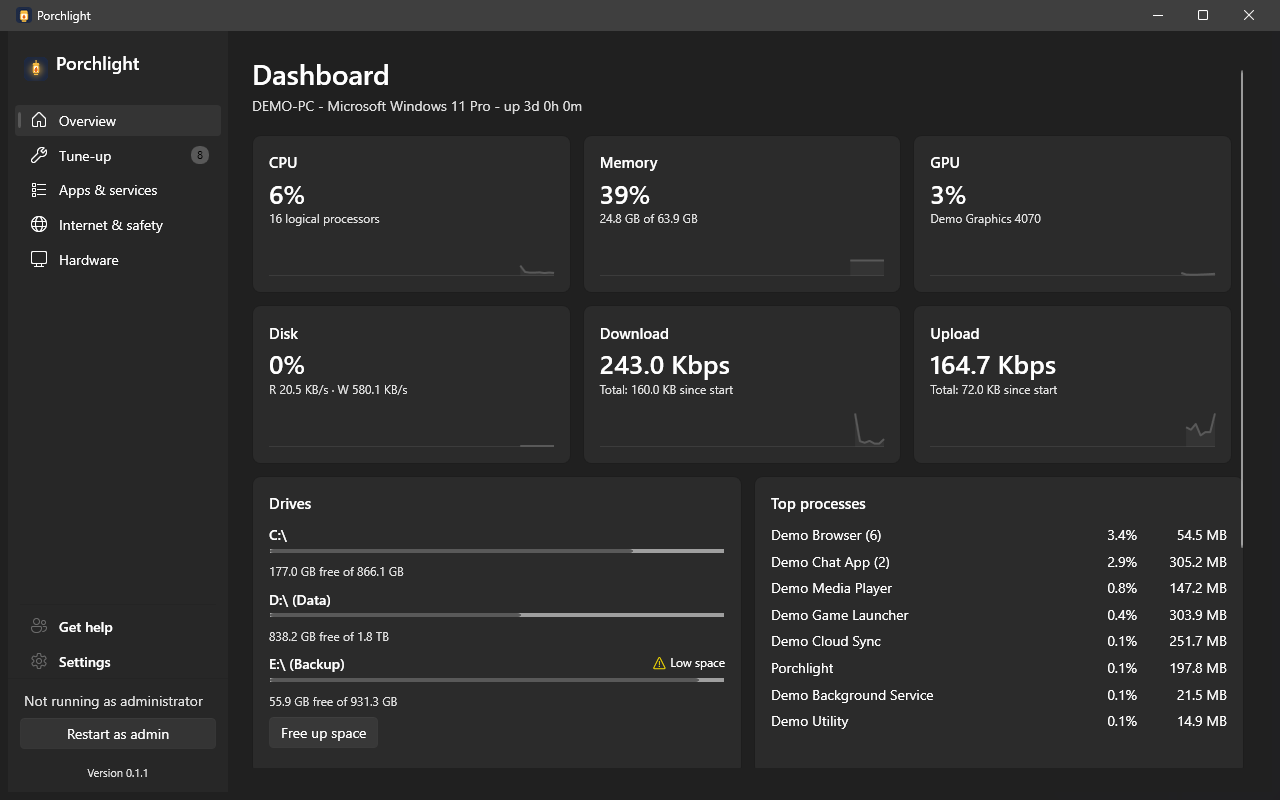
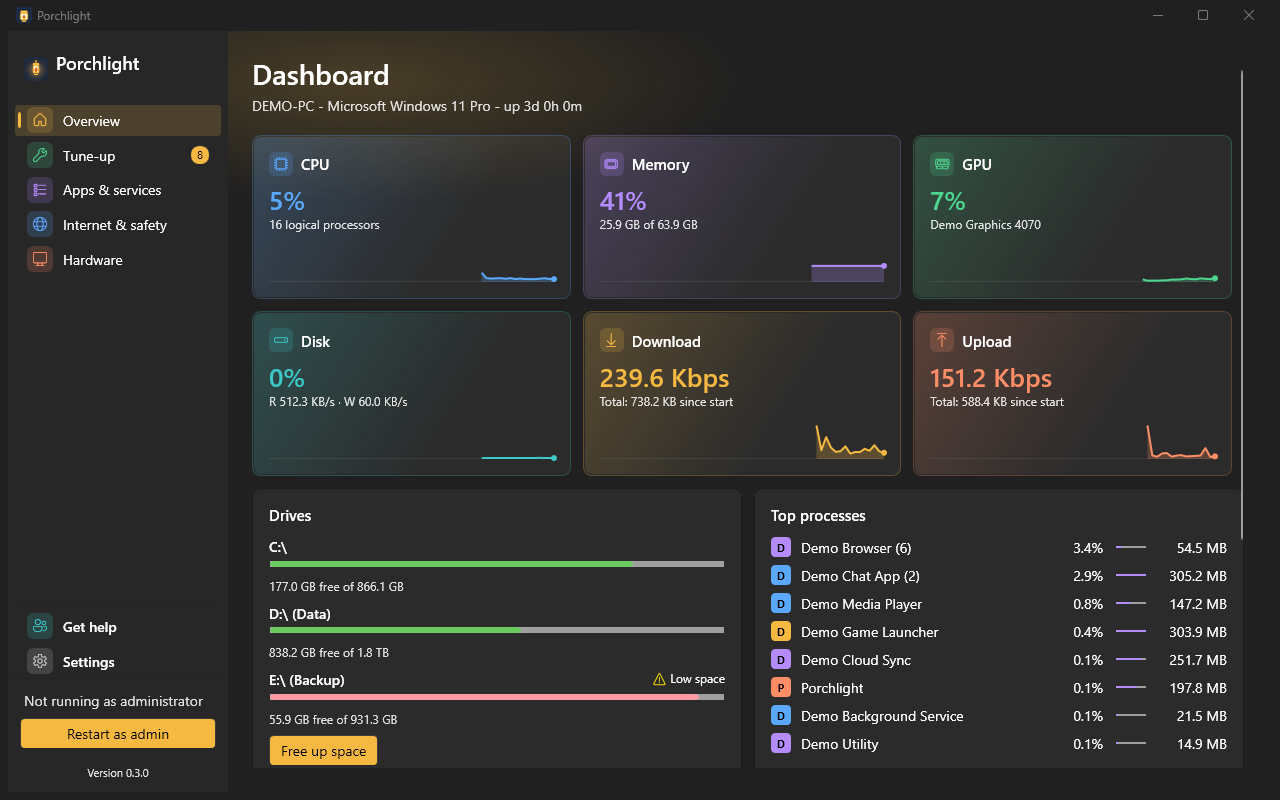
feat(ui): vivid colour for the web console's new views, spec 40, changelog and dashboard screenshot

diff --git a/src/Porchlight.Core/WebConsole/Assets/app.js b/src/Porchlight.Core/WebConsole/Assets/app.js
@@ -48,7 +48,7 @@
 
   var SVG = "http://www.w3.org/2000/svg";
 
-  // Each metric's colour and icon (docs/specs/39-vivid-colour.md), matching the app's Dashboard.
+  // Each metric's colour and icon (docs/specs/40-vivid-colour.md), matching the app's Dashboard.
   var metricLook = {
     cpu: { hue: "blue", icon: "M4 4h8v8H4z M6 1.5V4 M10 1.5V4 M6 12v2.5 M10 12v2.5 M1.5 6H4 M1.5 10H4 M12 6h2.5 M12 10h2.5" },
     memory: { hue: "violet", icon: "M1.5 4.5h13v7h-13z M4.5 7v2 M7 7v2 M9.5 7v2 M12 7v2" },
@@ -169,6 +169,18 @@
     });
   }
 
+  // A table cell with the app's coloured letter tile and its label.
+  function appCell(name, label) {
+    var cell = make("td");
+    var app = cell.appendChild(make("span", "app"));
+    var initial = /[\p{L}\p{N}]/u.exec(name || "");
+    var letter = app.appendChild(make("span", "app-letter", initial ? initial[0].toUpperCase() : "?"));
+    letter.setAttribute("data-hue", hueFor(name || ""));
+    letter.setAttribute("aria-hidden", "true");
+    app.appendChild(make("span", null, label));
+    return cell;
+  }
+
   function renderProcesses(list) {
     var body = el("processes");
     body.replaceChildren();
@@ -176,12 +188,7 @@
     (list || []).forEach(function (p) { if (p.workingSetBytes > largest) { largest = p.workingSetBytes; } });
     (list || []).forEach(function (p) {
       var row = make("tr");
-      var app = row.appendChild(make("td")).appendChild(make("span", "app"));
-      var initial = /[\p{L}\p{N}]/u.exec(p.name);
-      var letter = app.appendChild(make("span", "app-letter", initial ? initial[0].toUpperCase() : "?"));
-      letter.setAttribute("data-hue", hueFor(p.name));
-      letter.setAttribute("aria-hidden", "true");
-      app.appendChild(make("span", null, p.instanceCount > 1 ? p.name + " (" + p.instanceCount + ")" : p.name));
+      row.appendChild(appCell(p.name, p.instanceCount > 1 ? p.name + " (" + p.instanceCount + ")" : p.name));
       row.appendChild(make("td", "num", p.cpuPercent.toFixed(1) + "%"));
       var memory = row.appendChild(make("td", "num"));
       var bar = memory.appendChild(make("span", "mem-bar"));
@@ -255,7 +262,7 @@
     table.hidden = !u.items || u.items.length === 0;
     (u.items || []).forEach(function (item) {
       var row = make("tr");
-      row.appendChild(make("td", null, item.name));
+      row.appendChild(appCell(item.name, item.name));
       row.appendChild(make("td", null, item.installedVersion));
       row.appendChild(make("td", null, item.availableVersion));
       body.appendChild(row);
@@ -273,7 +280,7 @@
     table.hidden = items.length === 0;
     items.forEach(function (item) {
       var row = make("tr");
-      row.appendChild(make("td", null, item.publisher ? item.name + " (" + item.publisher + ")" : item.name));
+      row.appendChild(appCell(item.name, item.publisher ? item.name + " (" + item.publisher + ")" : item.name));
       row.appendChild(make("td", null, item.isEnabled ? "\u2713 On" : "Off"));
       row.appendChild(make("td", impactLabel[item.impact] ? "impact-" + item.impact : null,
         impactLabel[item.impact] || impactLabel.NotMeasured));
@@ -282,11 +289,11 @@
   }
 
   function securityItem(title, card) {
-    var root = make("div", "security-item");
+    var level = levelLabel[card.level] ? card.level : "Unknown";
+    var root = make("div", "security-item " + level);
     root.appendChild(make("div", "security-title", title));
     root.appendChild(make("div", "security-verdict", card.verdict));
-    root.appendChild(make("div", "level " + (levelLabel[card.level] ? card.level : "Unknown"),
-      levelLabel[card.level] || levelLabel.Unknown));
+    root.appendChild(make("div", "level " + level, levelLabel[level]));
     if (card.lines && card.lines.length) {
       var list = root.appendChild(make("ul", "security-lines"));
       card.lines.forEach(function (line) { list.appendChild(make("li", null, line)); });

diff --git a/src/Porchlight.Core/WebConsole/Assets/app.css b/src/Porchlight.Core/WebConsole/Assets/app.css
@@ -7,7 +7,7 @@
   --text-secondary: #5d5d5d;
   --accent: #a86b00;
   --on-accent: #ffffff;
-  /* Category hues, the same as the app's Themes/Palette.Light.xaml (docs/specs/39-vivid-colour.md). */
+  /* Category hues, the same as the app's Themes/Palette.Light.xaml (docs/specs/40-vivid-colour.md). */
   --hue-amber: #a86b00;
   --hue-blue: #1f6fd1;
   --hue-violet: #7a4ad8;
@@ -289,10 +289,32 @@ footer.secondary { font-size: 12px; margin: 16px auto 0; padding: 0 0 24px; }
   cursor: pointer;
 }
 .nav-button:hover, .nav-button:focus-visible { border-color: var(--accent); }
+/* Each section button in its own colour, with a dot so it reads as a set (docs/specs/40-vivid-colour.md). */
+.nav-button[data-hue] {
+  display: inline-flex;
+  align-items: center;
+  gap: 8px;
+  background: color-mix(in srgb, var(--hue) var(--tint), var(--card));
+  border-color: color-mix(in srgb, var(--hue) var(--stroke), var(--border));
+}
+.nav-button[data-hue]::before { content: ""; width: 8px; height: 8px; border-radius: 50%; background: var(--hue); }
+.nav-button[data-hue]:hover, .nav-button[data-hue]:focus-visible { border-color: var(--hue); }
+.nav-button[data-hue="amber"] { --hue: var(--hue-amber); }
+.nav-button[data-hue="blue"] { --hue: var(--hue-blue); }
+.nav-button[data-hue="green"] { --hue: var(--hue-green); }
+.nav-button[data-hue="coral"] { --hue: var(--hue-coral); }
 
 .headline { font-size: 18px; font-weight: 600; margin: 0 0 12px; overflow-wrap: anywhere; }
 .security-grid { display: grid; grid-template-columns: repeat(auto-fit, minmax(240px, 1fr)); gap: 12px; }
 .security-item { border: 1px solid var(--border); border-radius: 8px; padding: 12px 14px; min-width: 0; }
+/* Tinted by verdict; the level label below still says it in words. */
+.security-item.Good { --hue: var(--success); }
+.security-item.Attention { --hue: var(--critical); }
+.security-item.Unknown { --hue: var(--caution); }
+.security-item.Good, .security-item.Attention, .security-item.Unknown {
+  background: linear-gradient(150deg, color-mix(in srgb, var(--hue) var(--wash), transparent), transparent 70%);
+  border-color: color-mix(in srgb, var(--hue) var(--stroke), var(--border));
+}
 .security-title { font-size: 13px; color: var(--text-secondary); }
 .security-verdict { font-weight: 600; margin: 2px 0 6px; overflow-wrap: anywhere; }
 .security-lines { margin: 6px 0 0; padding-left: 18px; font-size: 13px; color: var(--text-secondary); overflow-wrap: anywhere; }

diff --git a/src/Porchlight.Core/WebConsole/Assets/index.html b/src/Porchlight.Core/WebConsole/Assets/index.html
@@ -32,10 +32,10 @@
 
     <div id="content" hidden>
       <nav class="nav" aria-label="Sections">
-        <button type="button" class="nav-button" data-target="overview">Overview</button>
-        <button type="button" class="nav-button" data-target="security-card">Security</button>
-        <button type="button" class="nav-button" data-target="updates-card">Updates</button>
-        <button type="button" class="nav-button" data-target="startup-card">Startup</button>
+        <button type="button" class="nav-button" data-target="overview" data-hue="amber">Overview</button>
+        <button type="button" class="nav-button" data-target="security-card" data-hue="blue">Security</button>
+        <button type="button" class="nav-button" data-target="updates-card" data-hue="green">Updates</button>
+        <button type="button" class="nav-button" data-target="startup-card" data-hue="coral">Startup</button>
       </nav>
 
       <section id="restart" class="notice" hidden>

diff --git a/src/Porchlight.App/Shell/MainWindow.xaml b/src/Porchlight.App/Shell/MainWindow.xaml
@@ -104,7 +104,7 @@
                                     <ColumnDefinition Width="*"/>
                                     <ColumnDefinition Width="Auto"/>
                                 </Grid.ColumnDefinitions>
-                                <!-- Each category's own colour (docs/specs/39-vivid-colour.md). -->
+                                <!-- Each category's own colour (docs/specs/40-vivid-colour.md). -->
                                 <Border Grid.Column="0" Style="{StaticResource HueIconChip}"
                                         c:HueBrushes.Hue="{Binding Hue}" Margin="0,-4,10,-4">
                                     <TextBlock Text="{Binding Glyph}" Style="{StaticResource HueIconChipGlyph}"/>

diff --git a/src/Porchlight.App/Themes/Palette.Dark.xaml b/src/Porchlight.App/Themes/Palette.Dark.xaml
@@ -3,7 +3,7 @@
   <!-- Vivid colour palette, dark theme.
        Not merged into App.xaml: ThemePalette copies these entries into Application.Resources whenever the
        effective theme changes, so they win over the Fluent theme dictionary. Keep the key set identical to
-       Palette.Light.xaml. See docs/specs/39-vivid-colour.md. -->
+       Palette.Light.xaml. See docs/specs/40-vivid-colour.md. -->
 
   <!-- Porchlight amber replaces the Windows accent: every Fluent accent brush (buttons, toggles,
        progress bars, focus) is derived from these. -->

diff --git a/src/Porchlight.App/Themes/Palette.Light.xaml b/src/Porchlight.App/Themes/Palette.Light.xaml
@@ -3,7 +3,7 @@
   <!-- Vivid colour palette, light theme.
        Not merged into App.xaml: ThemePalette copies these entries into Application.Resources whenever the
        effective theme changes, so they win over the Fluent theme dictionary. Keep the key set identical to
-       Palette.Dark.xaml. See docs/specs/39-vivid-colour.md. -->
+       Palette.Dark.xaml. See docs/specs/40-vivid-colour.md. -->
 
   <!-- Porchlight amber replaces the Windows accent: every Fluent accent brush (buttons, toggles,
        progress bars, focus) is derived from these. -->

diff --git a/src/Porchlight.App/Features/Dashboard/DashboardView.xaml b/src/Porchlight.App/Features/Dashboard/DashboardView.xaml
@@ -11,7 +11,7 @@
 
     <UserControl.Resources>
 
-        <!-- Each tile in its own colour (docs/specs/39-vivid-colour.md): icon chip, value, sparkline,
+        <!-- Each tile in its own colour (docs/specs/40-vivid-colour.md): icon chip, value, sparkline,
              tinted border and a wash fading across the card. The title still names the metric, so
              colour is never the only cue. -->
         <DataTemplate DataType="{x:Type dashboard:MetricTileViewModel}">

diff --git a/src/Porchlight.App/Themes/Styles.xaml b/src/Porchlight.App/Themes/Styles.xaml
@@ -142,7 +142,7 @@
     </Setter>
   </Style>
 
-  <!-- Vivid colour (docs/specs/39-vivid-colour.md). Set c:HueBrushes.Hue on the element (or an
+  <!-- Vivid colour (docs/specs/40-vivid-colour.md). Set c:HueBrushes.Hue on the element (or an
        ancestor) first; these styles only read the brushes it provides. -->
 
   <!-- A rounded square holding a Segoe Fluent glyph in the hue, on its soft tint. -->

diff --git a/src/Porchlight.App/Shell/PageCategoryInfo.cs b/src/Porchlight.App/Shell/PageCategoryInfo.cs
@@ -8,5 +8,5 @@ namespace Porchlight.App.Shell;
 /// <param name="Glyph">Segoe Fluent Icons glyph.</param>
 /// <param name="Order">Position among the unpinned categories, ascending.</param>
 /// <param name="IsPinnedToBottom">True for a category shown in its own group at the bottom of the rail.</param>
-/// <param name="Hue">Colour of the category's rail icon (docs/specs/39-vivid-colour.md).</param>
+/// <param name="Hue">Colour of the category's rail icon (docs/specs/40-vivid-colour.md).</param>
 public sealed record PageCategoryInfo(PageCategory Category, string Title, string Glyph, int Order, bool IsPinnedToBottom, Hue Hue = Hue.Neutral);

diff --git a/src/Porchlight.App/Features/Dashboard/MetricTileViewModel.cs b/src/Porchlight.App/Features/Dashboard/MetricTileViewModel.cs
@@ -30,7 +30,7 @@ public sealed partial class MetricTileViewModel : ObservableObject
 
     public string Title { get; }
 
-    /// <summary>The tile's colour: icon chip, value, sparkline and card wash (docs/specs/39-vivid-colour.md).</summary>
+    /// <summary>The tile's colour: icon chip, value, sparkline and card wash (docs/specs/40-vivid-colour.md).</summary>
     public Hue Hue { get; }
 
     /// <summary>Segoe Fluent Icons glyph shown in the tile's icon chip.</summary>

diff --git a/src/Porchlight.App/Shell/ThemePalette.cs b/src/Porchlight.App/Shell/ThemePalette.cs
@@ -15,7 +15,7 @@ namespace Porchlight.App.Shell;
 /// Fluent brush painted in a Windows accent shade is re-created in the matching amber shade.
 /// "System" follows Windows' app-mode setting live. In high
 /// contrast the palette is removed entirely, so Windows' high-contrast colours are left alone.
-/// See docs/specs/39-vivid-colour.md.
+/// See docs/specs/40-vivid-colour.md.
 /// </summary>
 public static class ThemePalette
 {

diff --git a/docs/specs/40-vivid-colour.md b/docs/specs/40-vivid-colour.md
@@ -1,0 +1,57 @@
+# 40 - Vivid colour (branch `feat/vivid-color`)
+
+Porchlight looked monotone: every tile, bar and badge used the Windows accent colour, which on many
+PCs is grey or default blue, so nothing on a page stood out. Four levels were mocked up (current,
+brand accent, colour-coded, vivid) and level 3, "vivid", was chosen.
+
+## Goals
+
+- **Brand accent.** Porchlight's lamp amber (from the icon) replaces the Windows accent everywhere
+  Fluent uses it: accent buttons, check boxes, toggles, radio buttons, sliders, progress bars, focus,
+  badges, the selected-page bar and tab underline.
+- **Category hues.** Seven hues (`Controls/Hue.cs`): Amber, Blue, Violet, Green, Teal, Coral and
+  Neutral, each with a light and a dark value tuned for contrast on that theme's cards.
+  - Left menu: each category's icon sits on a rounded square in its hue (Overview amber, Tune-up
+    green, Apps & services violet, Internet & safety blue, Hardware coral, Get help teal, Settings
+    neutral). The selected row is tinted amber and keeps its accent bar.
+  - Dashboard tiles: CPU blue, Memory violet, GPU green, Disk teal, Download amber, Upload coral. Each
+    tile has an icon chip, its value in the hue, a filled sparkline with a dot on the newest sample,
+    a tinted border and a wash that fades across the card.
+- **Status colour.** Drive bars are green, amber from 85% used, red when Windows reports low space.
+  Each Top processes row has a letter tile in a colour picked from the app's name (stable across
+  runs, and the same in the web console) and a small bar of its memory relative to the largest row.
+- **Glow.** A soft amber radial glow behind every page's title.
+- **Web console.** The same hues, tile treatment, letter tiles, drive colours and glow; section
+  buttons get their own hue, and security cards are tinted by verdict.
+- Colour is never the only cue: titles, "Low space"/"Almost full", level labels and the selected-page
+  bar stay as they were.
+
+## Non-goals
+
+- Tinted cards on every page. Other pages get the accent, menu colours and glow; per-page hues can
+  follow page by page.
+- A setting to turn colour off. High-contrast themes already drop the palette (below).
+
+## Design
+
+- `Themes/Palette.Dark.xaml` / `Palette.Light.xaml` hold the amber accent ramp
+  (`SystemAccentColor*`) and, per hue, `Hue{Name}Brush`, `TintBrush`, `StrokeBrush` and `WashBrush`
+  plus `BrandGlowBrush`. Both files must define the same keys (tested).
+- `Shell/ThemePalette` (called by `ThemeService.Apply`) copies the palette for the *effective* theme
+  into `Application.Resources`, where it wins over Fluent's merged dictionary. "System" reads
+  `AppsUseLightTheme` and re-applies on `SystemEvents.UserPreferenceChanged`. Fluent bakes the Windows
+  accent into its control brushes when it loads, so `ThemePalette` also finds every Fluent brush whose
+  colour is one of the Windows accent shades and re-creates it in the amber shade of the same rank,
+  keeping its alpha. In high contrast all of this is removed.
+- `Controls/HueBrushes` is an attached property: `c:HueBrushes.Hue="Blue"` points inherited
+  `Brush`/`Tint`/`Stroke`/`Wash` properties at that hue's resources as dynamic references, so they
+  follow theme switches. `PaintBorder`/`PaintWash` (set by the `HueCard`/`HueWash` styles) paint a
+  Border directly, because a style binding to those properties failed to resolve on the card itself.
+- The letter-tile hash is shared by `ProcessRowViewModel.HueFor` and `app.js hueFor` (tested against
+  known values).
+
+## Tests
+
+- `ThemePaletteTests`: effective dark/light per setting; both palettes define the same keys; every
+  hue has all four brushes.
+- `DashboardRowViewModelTests`: drive fill levels, process initials, stable hue, memory shares.
